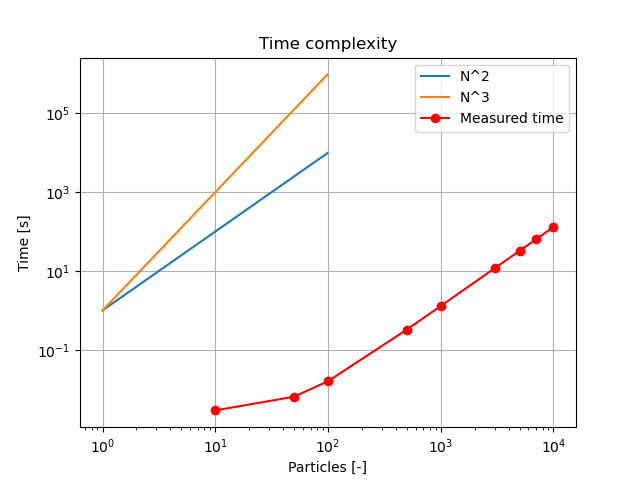
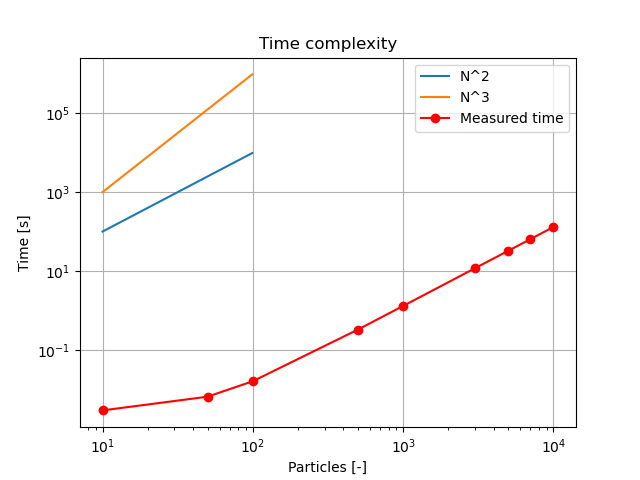
A3, plotted more1

diff --git a/A3/plotting.py b/A3/plotting.py
@@ -1,13 +1,13 @@
 import matplotlib.pyplot as plt
 import math
 N = [10, 50, 100, 500, 1000, 3000, 5000, 7000, 10000]
-N_2 = [e**2 for e in range(1, 100)]
-N_3 = [e**3 for e in range(1, 100)]
+N_2 = [e**2 for e in range(10, 100)]
+N_3 = [e**3 for e in range(10, 100)]
 time = [0.002901, 0.006463, 0.015964, 0.325657, 1.295745, 11.684230, 32.431196, 63.577339, 130.429485]
 
 
-plt.loglog(range(1,100), N_2)
-plt.loglog(range(1,100), N_3)
+plt.loglog(range(10,100), N_2)
+plt.loglog(range(10,100), N_3)
 plt.loglog(N, time, "ro-")
 plt.legend(["N^2", "N^3", "Measured time"])
 plt.title("Time complexity")
